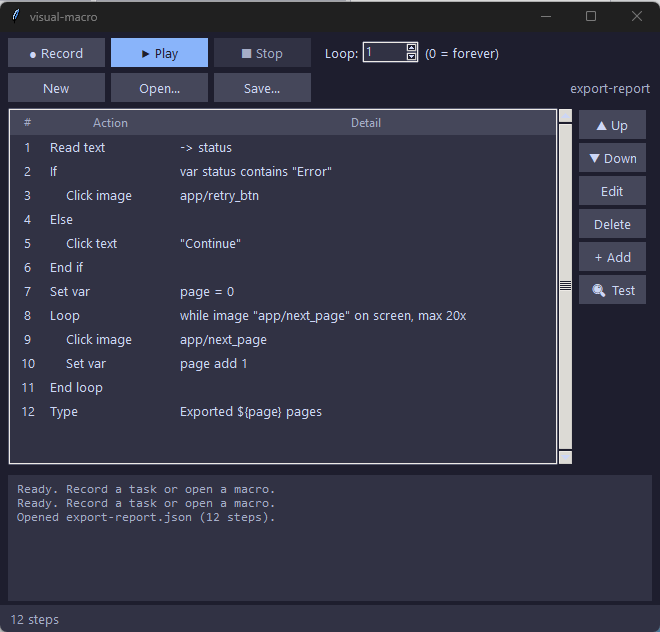
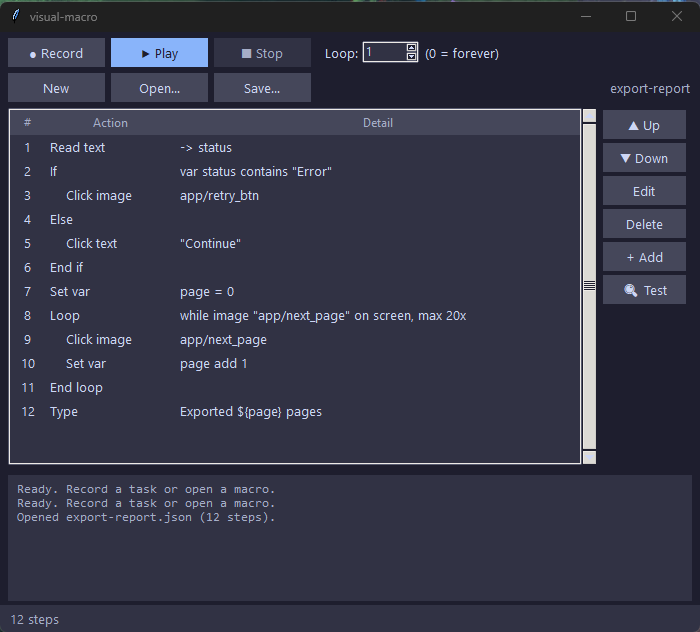
Easier to use: friendly step menu, empty-state hint, tooltips, rec badge
- + Add now shows a grouped plain-English menu (Listbox) instead of raw
  action names like find_click
- empty macro shows an on-list hint telling you to Record or + Add
- tooltips on all toolbar/side buttons
- floating '● Recording — press F10 to stop' badge stays visible while the
  window is minimized during recording (verified it survives iconify)
- refresh() on launch so the hint shows immediately; widen default window so
  the side buttons aren't clipped
- docs: add the friendly add-step menu screenshot; regenerate ui.png

Verified: compiles; UI --selftest OK; engine tests pass; screenshots checked.

diff --git a/ui/app.py b/ui/app.py
@@ -146,8 +146,8 @@ class App(tk.Tk):
         except tk.TclError:
             pass
         self.title("visual-macro")
-        self.geometry("640x560")
-        self.minsize(560, 460)
+        self.geometry("700x580")
+        self.minsize(640, 470)
 
         self.steps: list[dict] = []
         self.macro_name = "untitled"
@@ -165,6 +165,7 @@ class App(tk.Tk):
         self._start_panic_listener()
         self.after(80, self._drain_log)
         self.protocol("WM_DELETE_WINDOW", self._on_close)
+        self.refresh()  # shows the empty-state hint on first launch
         self.log("Ready. Record a task or open a macro.")
 
     # -- theme -------------------------------------------------------------
@@ -217,6 +218,10 @@ class App(tk.Tk):
         self.btn_record.pack(side="left")
         self.btn_play.pack(side="left", padx=(6, 0))
         self.btn_stop.pack(side="left", padx=(6, 12))
+        Tooltip(self.btn_record, "Do a task by hand once — it records the steps.\n"
+                                 "Press F10 to stop recording.")
+        Tooltip(self.btn_play, "Run the macro. Loop sets how many times.")
+        Tooltip(self.btn_stop, "Stop a running macro (or press F12 anytime).")
 
         ttk.Label(bar, text="Loop:").pack(side="left")
         self.loop_var = tk.StringVar(value="1")
@@ -249,18 +254,32 @@ class App(tk.Tk):
         self.tree.pack(side="left", fill="both", expand=True)
         self.tree.bind("<Double-1>", lambda e: self.on_edit())
 
+        # empty-state hint shown over the (blank) list
+        self.empty_hint = tk.Label(
+            self.tree, bg=THEME["surface"], fg=THEME["subtext"],
+            font=("Segoe UI", 11), justify="center",
+            text="No steps yet.\n\n"
+                 "Click  ● Record  to capture a task by doing it once,\n"
+                 "or  + Add  to build one step at a time.")
+
         sb = ttk.Scrollbar(mid, orient="vertical", command=self.tree.yview)
         sb.pack(side="left", fill="y")
         self.tree.configure(yscrollcommand=sb.set)
 
         side = ttk.Frame(mid, padding=(6, 0))
         side.pack(side="left", fill="y")
-        for text, cmd in [
-            ("▲ Up", self.on_up), ("▼ Down", self.on_down),
-            ("Edit", self.on_edit), ("Delete", self.on_delete),
-            ("+ Add", self.on_add), ("🔍 Test", self.on_test),
+        for text, cmd, tip in [
+            ("▲ Up", self.on_up, "Move the selected step up"),
+            ("▼ Down", self.on_down, "Move the selected step down"),
+            ("Edit", self.on_edit, "Edit the selected step (or double-click it)"),
+            ("Delete", self.on_delete, "Delete the selected step"),
+            ("+ Add", self.on_add, "Add a new step (plain-English menu)"),
+            ("🔍 Test", self.on_test, "Preview where the selected step would click —\n"
+                                      "without clicking. Shows a box + confidence."),
         ]:
-            ttk.Button(side, text=text, width=9, command=cmd).pack(pady=2)
+            b = ttk.Button(side, text=text, width=9, command=cmd)
+            b.pack(pady=2)
+            Tooltip(b, tip)
 
         # log
         c = THEME
@@ -344,6 +363,10 @@ class App(tk.Tk):
             self.tree.focus(iid)
         self.name_lbl.configure(text=self.macro_name)
         self.set_status(f"{len(self.steps)} steps")
+        if self.steps:
+            self.empty_hint.place_forget()
+        else:
+            self.empty_hint.place(relx=0.5, rely=0.42, anchor="center")
 
     def _selected_index(self) -> int | None:
         sel = self.tree.selection()
@@ -362,6 +385,7 @@ class App(tk.Tk):
         self._set_busy(True)
         self.log(f"Recording '{name}' — do your task, press F10 to stop.")
         self.set_status("Recording…  (window minimized; press F10 to stop)")
+        self._show_rec_banner()
         self.iconify()  # get the UI out of the way so clicks don't hit it
 
         def worker():
@@ -377,9 +401,40 @@ class App(tk.Tk):
 
         threading.Thread(target=worker, daemon=True).start()
 
+    def _show_rec_banner(self) -> None:
+        """A floating 'recording' badge that stays visible while the main
+        window is minimized (so you're never recording blind)."""
+        b = tk.Toplevel(self)
+        b.overrideredirect(True)
+        b.attributes("-topmost", True)
+        try:
+            b.attributes("-alpha", 0.93)
+        except tk.TclError:
+            pass
+        f = tk.Frame(b, bg="#11111b", padx=16, pady=9)
+        f.pack()
+        tk.Label(f, text="●", bg="#11111b", fg="#f38ba8",
+                 font=("Segoe UI", 14, "bold")).pack(side="left")
+        tk.Label(f, text="  Recording  ·  press  F10  to stop", bg="#11111b",
+                 fg="#cdd6f4", font=("Segoe UI", 12, "bold")).pack(side="left")
+        b.update_idletasks()
+        sw = b.winfo_screenwidth()
+        b.geometry(f"+{(sw - b.winfo_width()) // 2}+22")
+        self._rec_banner = b
+
+    def _hide_rec_banner(self) -> None:
+        b = getattr(self, "_rec_banner", None)
+        if b is not None:
+            try:
+                b.destroy()
+            except tk.TclError:
+                pass
+            self._rec_banner = None
+
     def _after_record(self) -> None:
         self._recording = False
         self._set_busy(False)
+        self._hide_rec_banner()
         self.deiconify()
         self.lift()
 
@@ -676,20 +731,100 @@ def _is_default(key: str, val) -> bool:
     return key in defaults and val == defaults[key]
 
 
+# Plain-English step menu (label -> engine action; None = section header).
+FRIENDLY_STEPS = [
+    ("—  Click something  —", None),
+    ("Click an image on screen", "find_click"),
+    ("Click text (reads the screen)", "find_text_click"),
+    ("Click an object (AI model)", "find_object_click"),
+    ("Click a fixed X, Y spot", "click"),
+    ("—  Wait  —", None),
+    ("Wait for an image to appear", "wait_for"),
+    ("Wait for text to appear", "wait_for_text"),
+    ("Wait for an object to appear", "wait_for_object"),
+    ("Wait a set amount of time", "wait"),
+    ("—  Type  —", None),
+    ("Type some text", "type"),
+    ("Press keys (e.g. Ctrl+S)", "hotkey"),
+    ("—  Only-if / repeat  —", None),
+    ("If found… (run steps only when on screen)", "if"),
+    ("Else", "else"),
+    ("End if", "end_if"),
+    ("Repeat a block (loop)…", "loop"),
+    ("End loop", "end_loop"),
+    ("Break out of the loop", "break"),
+    ("Skip to the next loop pass", "continue"),
+    ("—  Advanced  —", None),
+    ("Set a variable", "set"),
+    ("Read screen text into a variable", "read_text"),
+    ("Run another saved macro", "call"),
+]
+
+
+class Tooltip:
+    """Tiny hover tooltip for a widget."""
+
+    def __init__(self, widget, text):
+        self.widget, self.text, self.tip = widget, text, None
+        widget.bind("<Enter>", self._show)
+        widget.bind("<Leave>", self._hide)
+
+    def _show(self, _):
+        if self.tip:
+            return
+        x = self.widget.winfo_rootx() + 8
+        y = self.widget.winfo_rooty() + self.widget.winfo_height() + 4
+        self.tip = tk.Toplevel(self.widget)
+        self.tip.overrideredirect(True)
+        self.tip.attributes("-topmost", True)
+        self.tip.geometry(f"+{x}+{y}")
+        tk.Label(self.tip, text=self.text, bg="#11111b", fg="#cdd6f4",
+                 font=("Segoe UI", 9), padx=6, pady=3, relief="solid", bd=1,
+                 justify="left").pack()
+
+    def _hide(self, _):
+        if self.tip:
+            self.tip.destroy()
+            self.tip = None
+
+
 def _choose_action(parent) -> str | None:
     dlg = tk.Toplevel(parent)
-    dlg.title("Add step")
+    dlg.title("Add a step")
+    dlg.configure(bg=THEME["bg"])
     dlg.transient(parent)
     dlg.grab_set()
-    ttk.Label(dlg, text="Step type:", padding=8).pack()
-    var = tk.StringVar(value=_ACTIONS[0])
-    ttk.Combobox(dlg, textvariable=var, values=_ACTIONS, state="readonly").pack(
-        padx=10)
+    ttk.Label(dlg, text="What should this step do?",
+              padding=(12, 10)).pack(anchor="w")
+    c = THEME
+    lb = tk.Listbox(dlg, width=40, height=len(FRIENDLY_STEPS), activestyle="none",
+                    bg=c["surface"], fg=c["text"], selectbackground=c["accent"],
+                    selectforeground=c["bg"], relief="flat", highlightthickness=0,
+                    font=("Segoe UI", 10))
+    for i, (label, act) in enumerate(FRIENDLY_STEPS):
+        lb.insert("end", label)
+        if act is None:  # dim the section headers
+            lb.itemconfig(i, foreground=c["subtext"], selectbackground=c["surface"])
+    lb.pack(padx=12, fill="both", expand=True)
     out = {"v": None}
-    def ok():
-        out["v"] = var.get()
+
+    def ok(*_):
+        sel = lb.curselection()
+        if not sel:
+            return
+        act = FRIENDLY_STEPS[sel[0]][1]
+        if act is None:  # header row — ignore
+            return
+        out["v"] = act
         dlg.destroy()
-    ttk.Button(dlg, text="Add", command=ok).pack(pady=8)
+
+    lb.bind("<Double-1>", ok)
+    btnf = ttk.Frame(dlg, padding=10)
+    btnf.pack()
+    ttk.Button(btnf, text="Add", style="Accent.TButton", command=ok).pack(
+        side="left", padx=4)
+    ttk.Button(btnf, text="Cancel", command=dlg.destroy).pack(side="left")
+    _dark_titlebar(dlg)
     parent.wait_window(dlg)
     return out["v"]
 

diff --git a/README.md b/README.md
@@ -120,15 +120,21 @@ python ui/app.py
 ```
 
 - **● Record** — name it, do your task, press **F10**. Steps appear in the list.
-  (The window minimizes while recording so your clicks don't hit it.)
+  While recording, the window minimizes and a floating **● Recording — press F10
+  to stop** badge stays on screen so you're never recording blind.
 - **▶ Play** — runs the macro. **Loop** sets how many times (0 = forever).
 - **■ Stop** / **F12** — abort a run instantly.
 - **Step list** — select a row, then **▲/▼** to reorder, **Edit** (or double-click)
-  to change a field, **Delete**, or **+ Add** a step by type.
+  to change a field, **Delete**, or **+ Add** a step.
 - **🔍 Test** — select a detection step and Test it: it searches the screen
   *without* clicking, flashes a box where it *would* click, and logs the
   confidence — so you can see and fix a bad match before you ever run the macro.
 - **New / Open / Save** — macros are JSON files in `macros/`.
+
+Hover any button for a tooltip, and an empty macro shows a hint on what to do.
+**+ Add** opens a plain-English menu — no need to know the internal step names:
+
+<p align="center"><img src="docs/addmenu.png" alt="the plain-English add-step menu" width="300"></p>
 
 Editing a step opens a small dialog whose fields match the step type — no syntax.
 Fields that take a screen region have a **Pick ▢** button: drag a box on screen